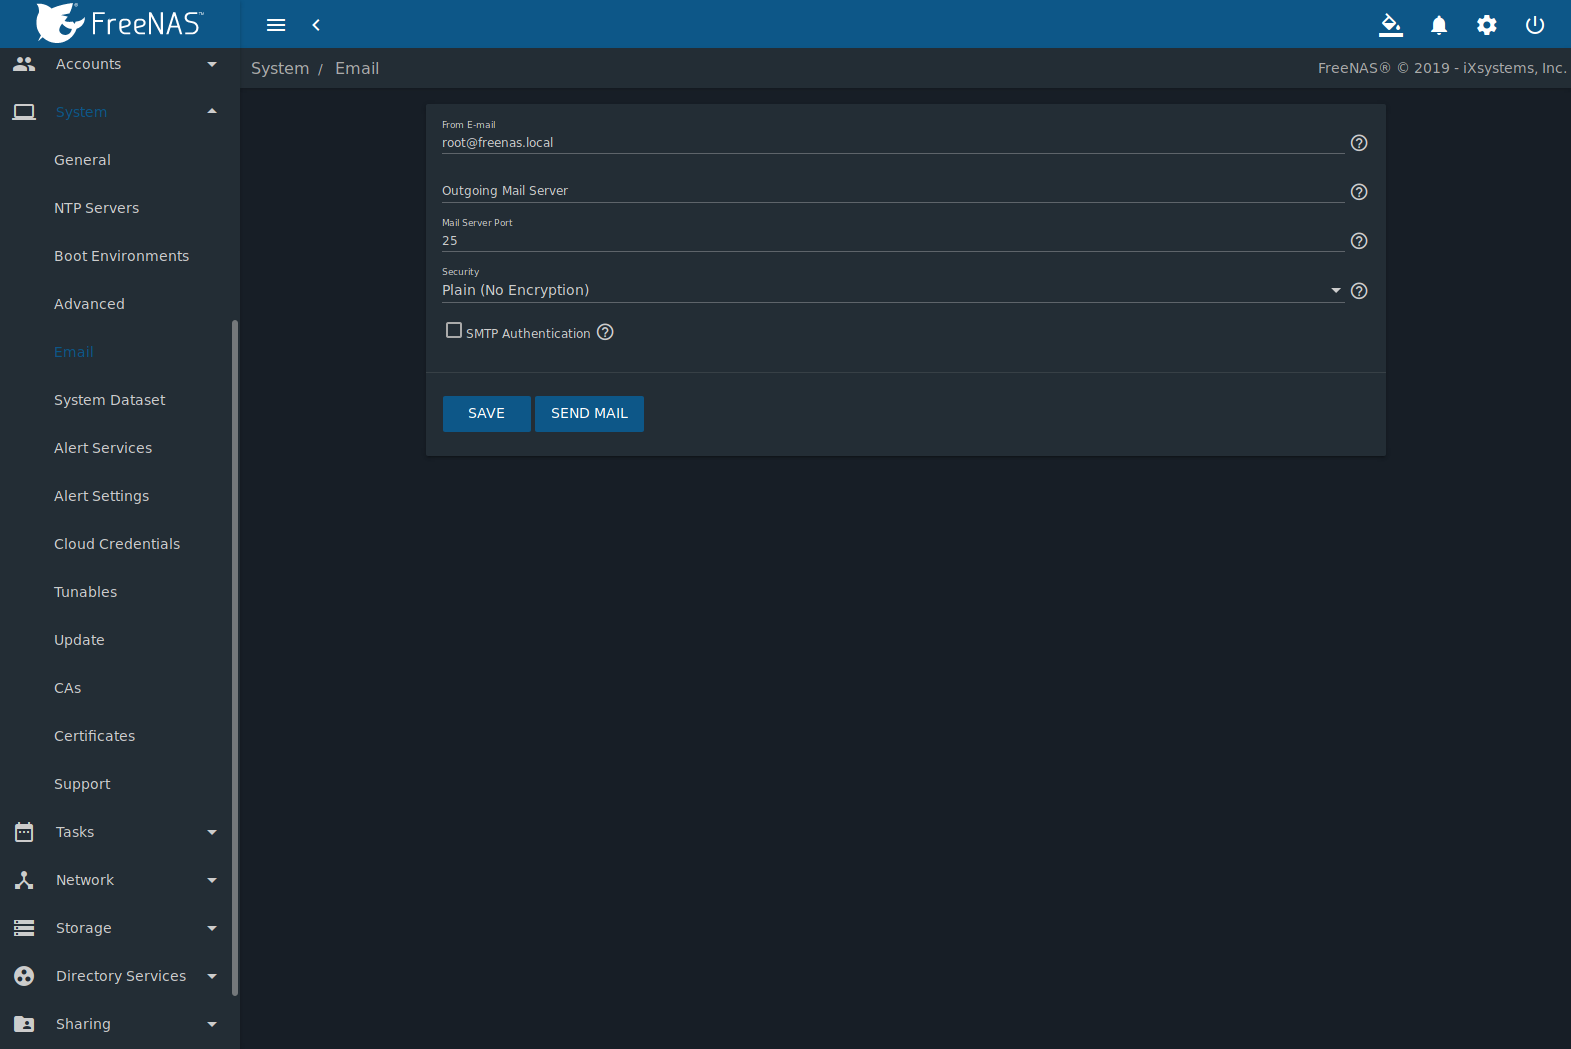
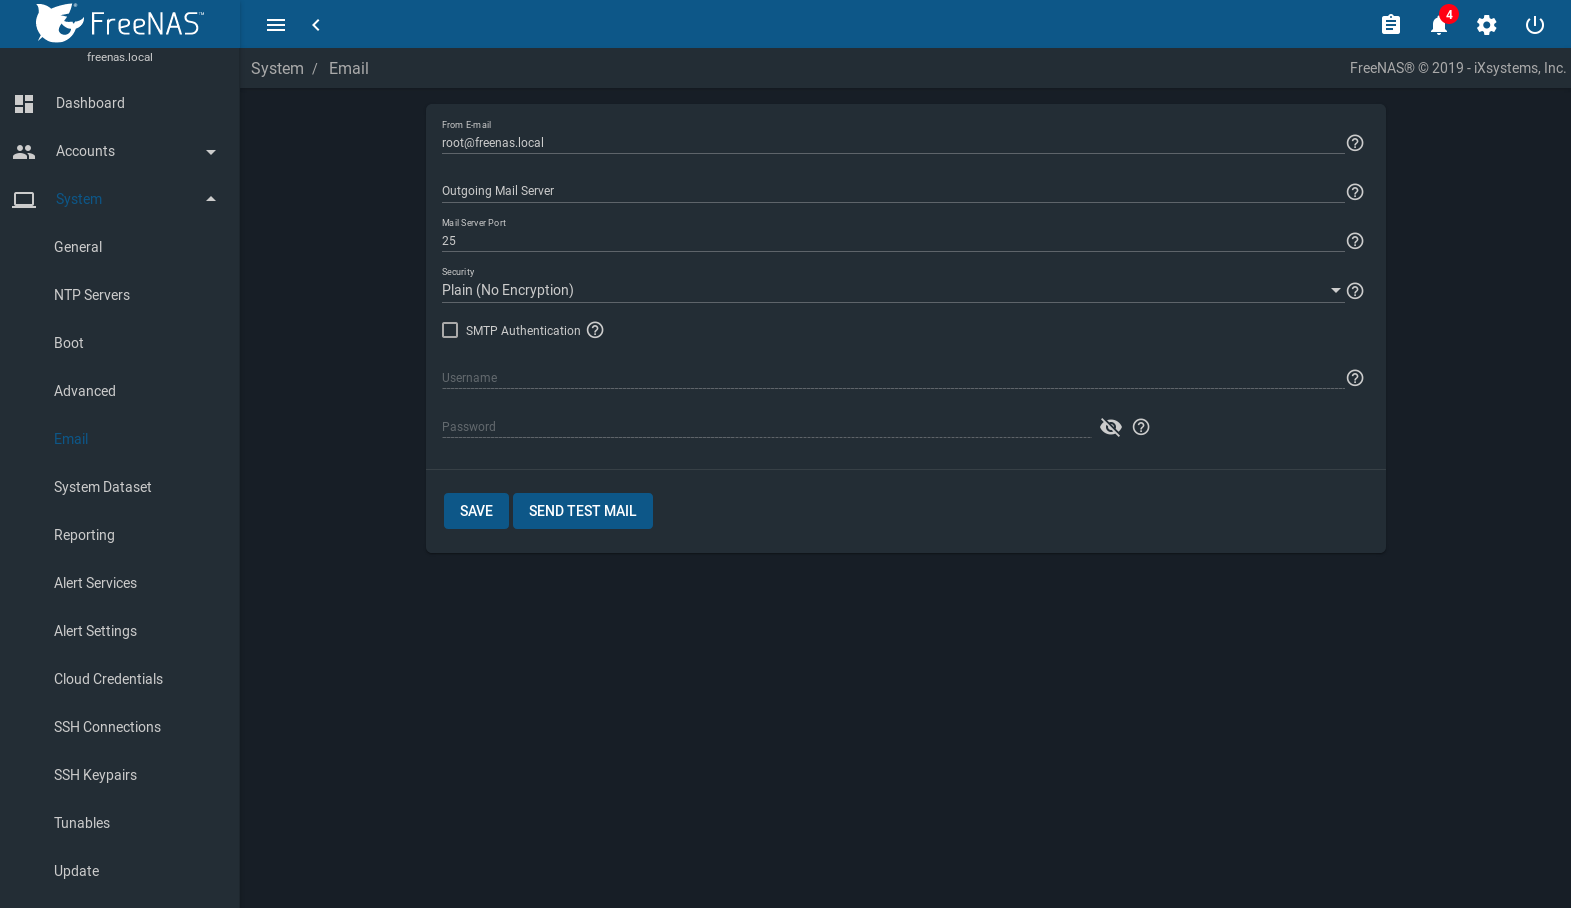
NAS-102218: Small update to System/Email text - Update field descriptions in Email Configuration Settings table - Update Send Test Mail button name - Update system-email.png with a temporary image - HTML build test: no issues.

diff --git a/userguide/system.rst b/userguide/system.rst
@@ -986,7 +986,7 @@ shown in
    | Setting              | Value                | Description                                                                                     |
    |                      |                      |                                                                                                 |
    +======================+======================+=================================================================================================+
-   | From email           | string               | The envelope From address shown in the email. This can be set to make filtering mail            |
+   | From E-mail          | string               | The envelope From address shown in the email. This can be set to make filtering mail            |
    |                      |                      | on the receiving system easier. The friendly name is set like this:                             |
    |                      |                      | :samp:`{Friendly Name} <address@example.com>`                                                   |
    |                      |                      |                                                                                                 |
@@ -1006,20 +1006,20 @@ shown in
    +----------------------+----------------------+-------------------------------------------------------------------------------------------------+
    | SMTP                 | checkbox             | Enable or disable                                                                               |
    | Authentication       |                      | `SMTP AUTH <https://en.wikipedia.org/wiki/SMTP_Authentication>`__                               |
-   |                      |                      | using PLAIN SASL. If enabled, enter the required :guilabel:`Username` and                       |
-   |                      |                      | :guilabel:`Password`.                                                                           |
+   |                      |                      | using PLAIN SASL. Setting this enables the required :guilabel:`Username` and optional           |
+   |                      |                      | :guilabel:`Password` fields.                                                                    |
    |                      |                      |                                                                                                 |
    +----------------------+----------------------+-------------------------------------------------------------------------------------------------+
-   | Username             | string               | Enter the SMTP username if the SMTP server requires authentication.                             |
+   | Username             | string               | Enter the SMTP username when the SMTP server requires authentication.                           |
    |                      |                      |                                                                                                 |
    +----------------------+----------------------+-------------------------------------------------------------------------------------------------+
-   | Password             | string               | Enter the SMTP password if the SMTP server requires authentication. Only plain text characters  |
+   | Password             | string               | Enter the SMTP account password if needed for authentication. Only plain text characters        |
    |                      |                      | (7-bit ASCII) are allowed in passwords. UTF or composed characters are not allowed.             |
    |                      |                      |                                                                                                 |
    +----------------------+----------------------+-------------------------------------------------------------------------------------------------+
 
 
-Click the :guilabel:`SEND MAIL` button to verify that the
+Click the :guilabel:`SEND TEST MAIL` button to verify that the
 configured email settings are working. If the test email fails,
 double-check that the :guilabel:`Email` field of the *root* user is
 correctly configured by clicking the :guilabel:`Edit` button for
